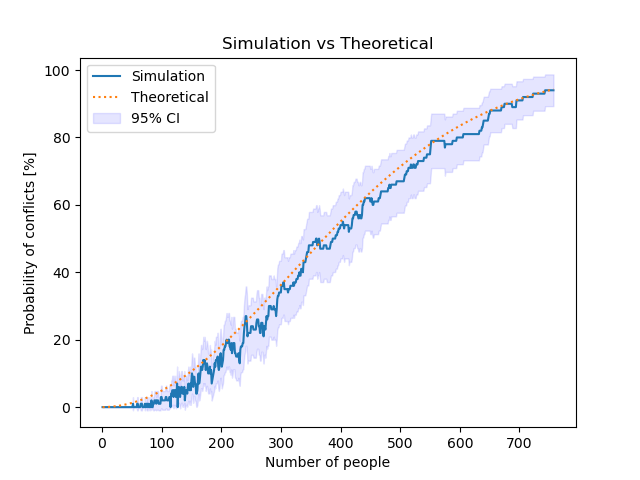
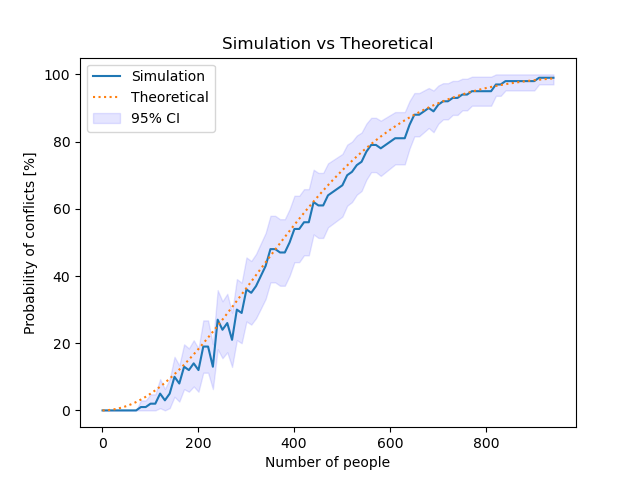
CI fixed, add some optimizations

diff --git a/Lab2/lab2_script.py b/Lab2/lab2_script.py
@@ -45,8 +45,16 @@ class BirthdayParadoxSimulator:
         std_dev = math.sqrt(p_conflicts * (1 - p_conflicts)) # standar deviation
         theoretical_probability = 1 - math.exp(-(m_people**2 / (2 * self.n_elements)))
         ci, rel_err = self.retrieve_ci(p_conflicts, std_dev)
+        ciLow = p_conflicts - ci
+        ciHigh = p_conflicts + ci
+
+        # avoid to return probabilities > 1 or < 0
+        if ciHigh > 1.0:
+            ciHigh = 1.0
+        if ciLow <= 0.0:
+            ciLow = 0.0
         return m_people, theoretical_probability, p_conflicts,\
-                    p_conflicts - ci, p_conflicts + ci, rel_err
+                    ciLow, ciHigh, rel_err
   
 
 print("***INITIAL SETTINGS***")
@@ -61,9 +69,23 @@ print("<<<START SIMULATION>>>")
 
 sim = BirthdayParadoxSimulator(n_elements, runs, seed, ci_level)
 #print("Probability of conflicts vs theoretical: ", sim.run(m_people))
-datafile = open("Lab2/birthdayparadox"+str(n_elements)+"elements.dat", "w")
+datafile = open("Lab2/birthdayparadox"+str(n_elements)+"elements"+str(runs)+"runs.dat", "w")
 print("# peoples\tTheoretical\tSimulations\tciLow\tciHigh\tRelErr", file=datafile)
-for m in range(10, int(3*math.sqrt(n_elements)), 100):
+
+# defining the step since with more elements the simulator slows down a lot
+if n_elements == 365:
+    step = 1
+elif n_elements == 10**5:
+    if runs == 100:
+        step = 10
+    else:
+        step = 100
+else:
+    step = 100
+
+stop_value = int(3*math.sqrt(n_elements))
+
+for m in range(1, stop_value, step):
     print("Running for m=", m)
     out_run = sim.run(m)
     print(*out_run, sep="\t", file=datafile)

diff --git a/Lab2/lab2_graph.py b/Lab2/lab2_graph.py
@@ -29,7 +29,7 @@ def plot_graph(input_filename,output_filename):
                 ci1.append(float(row[3])*100)
                 ci2.append(float(row[4])*100)
             
-    plt.vlines(380, linestyles='dashed', label='Conflict threshold:', colors='r', ymin=0, ymax=100)
+    #plt.vlines(380, linestyles='dashed', label='Conflict threshold:', colors='r', ymin=0, ymax=100)
     plt.plot(m, simulation, label='Simulation', marker='.')
     plt.plot(m,theory, label='Theoretical',linestyle='dotted')
     plt.fill_between(m, ci1,ci2, color='b', alpha=.1, label='95% CI')
@@ -42,4 +42,4 @@ def plot_graph(input_filename,output_filename):
     plt.savefig("Lab2/images/"+output_filename)
     plt.clf()
 
-plot_graph("Lab2/birthdayparadox100000elements.dat", "Graph10e5_1000runs_v2.png")
+plot_graph("Lab2/birthdayparadox100000elements1000runs.dat", "Graph10e5_1000runs.png")
